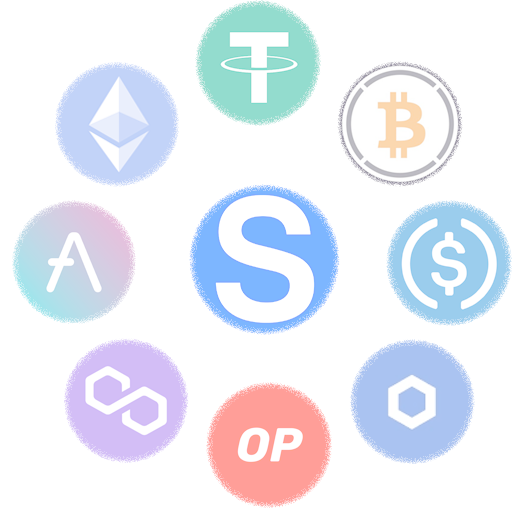
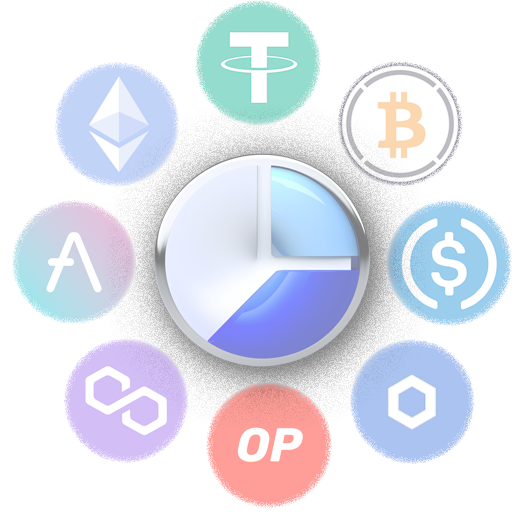
mj

Changed region(s): [[0.2447, 0.2466, 0.7648, 0.7707]]

diff --git a/src/views/Page.tsx b/src/views/Page.tsx
@@ -30,7 +30,7 @@ const StyledPage = styled.div<{ $removePadding: boolean; $noMinHeight }>`
   display: flex;
   flex-direction: column;
   align-items: center;
-  background-image: url('/images/diffusebanner.png');
+  background-image: url('/images/mj.png');
 
   background-position: 100% 20%;
   background-repeat: no-repeat;
